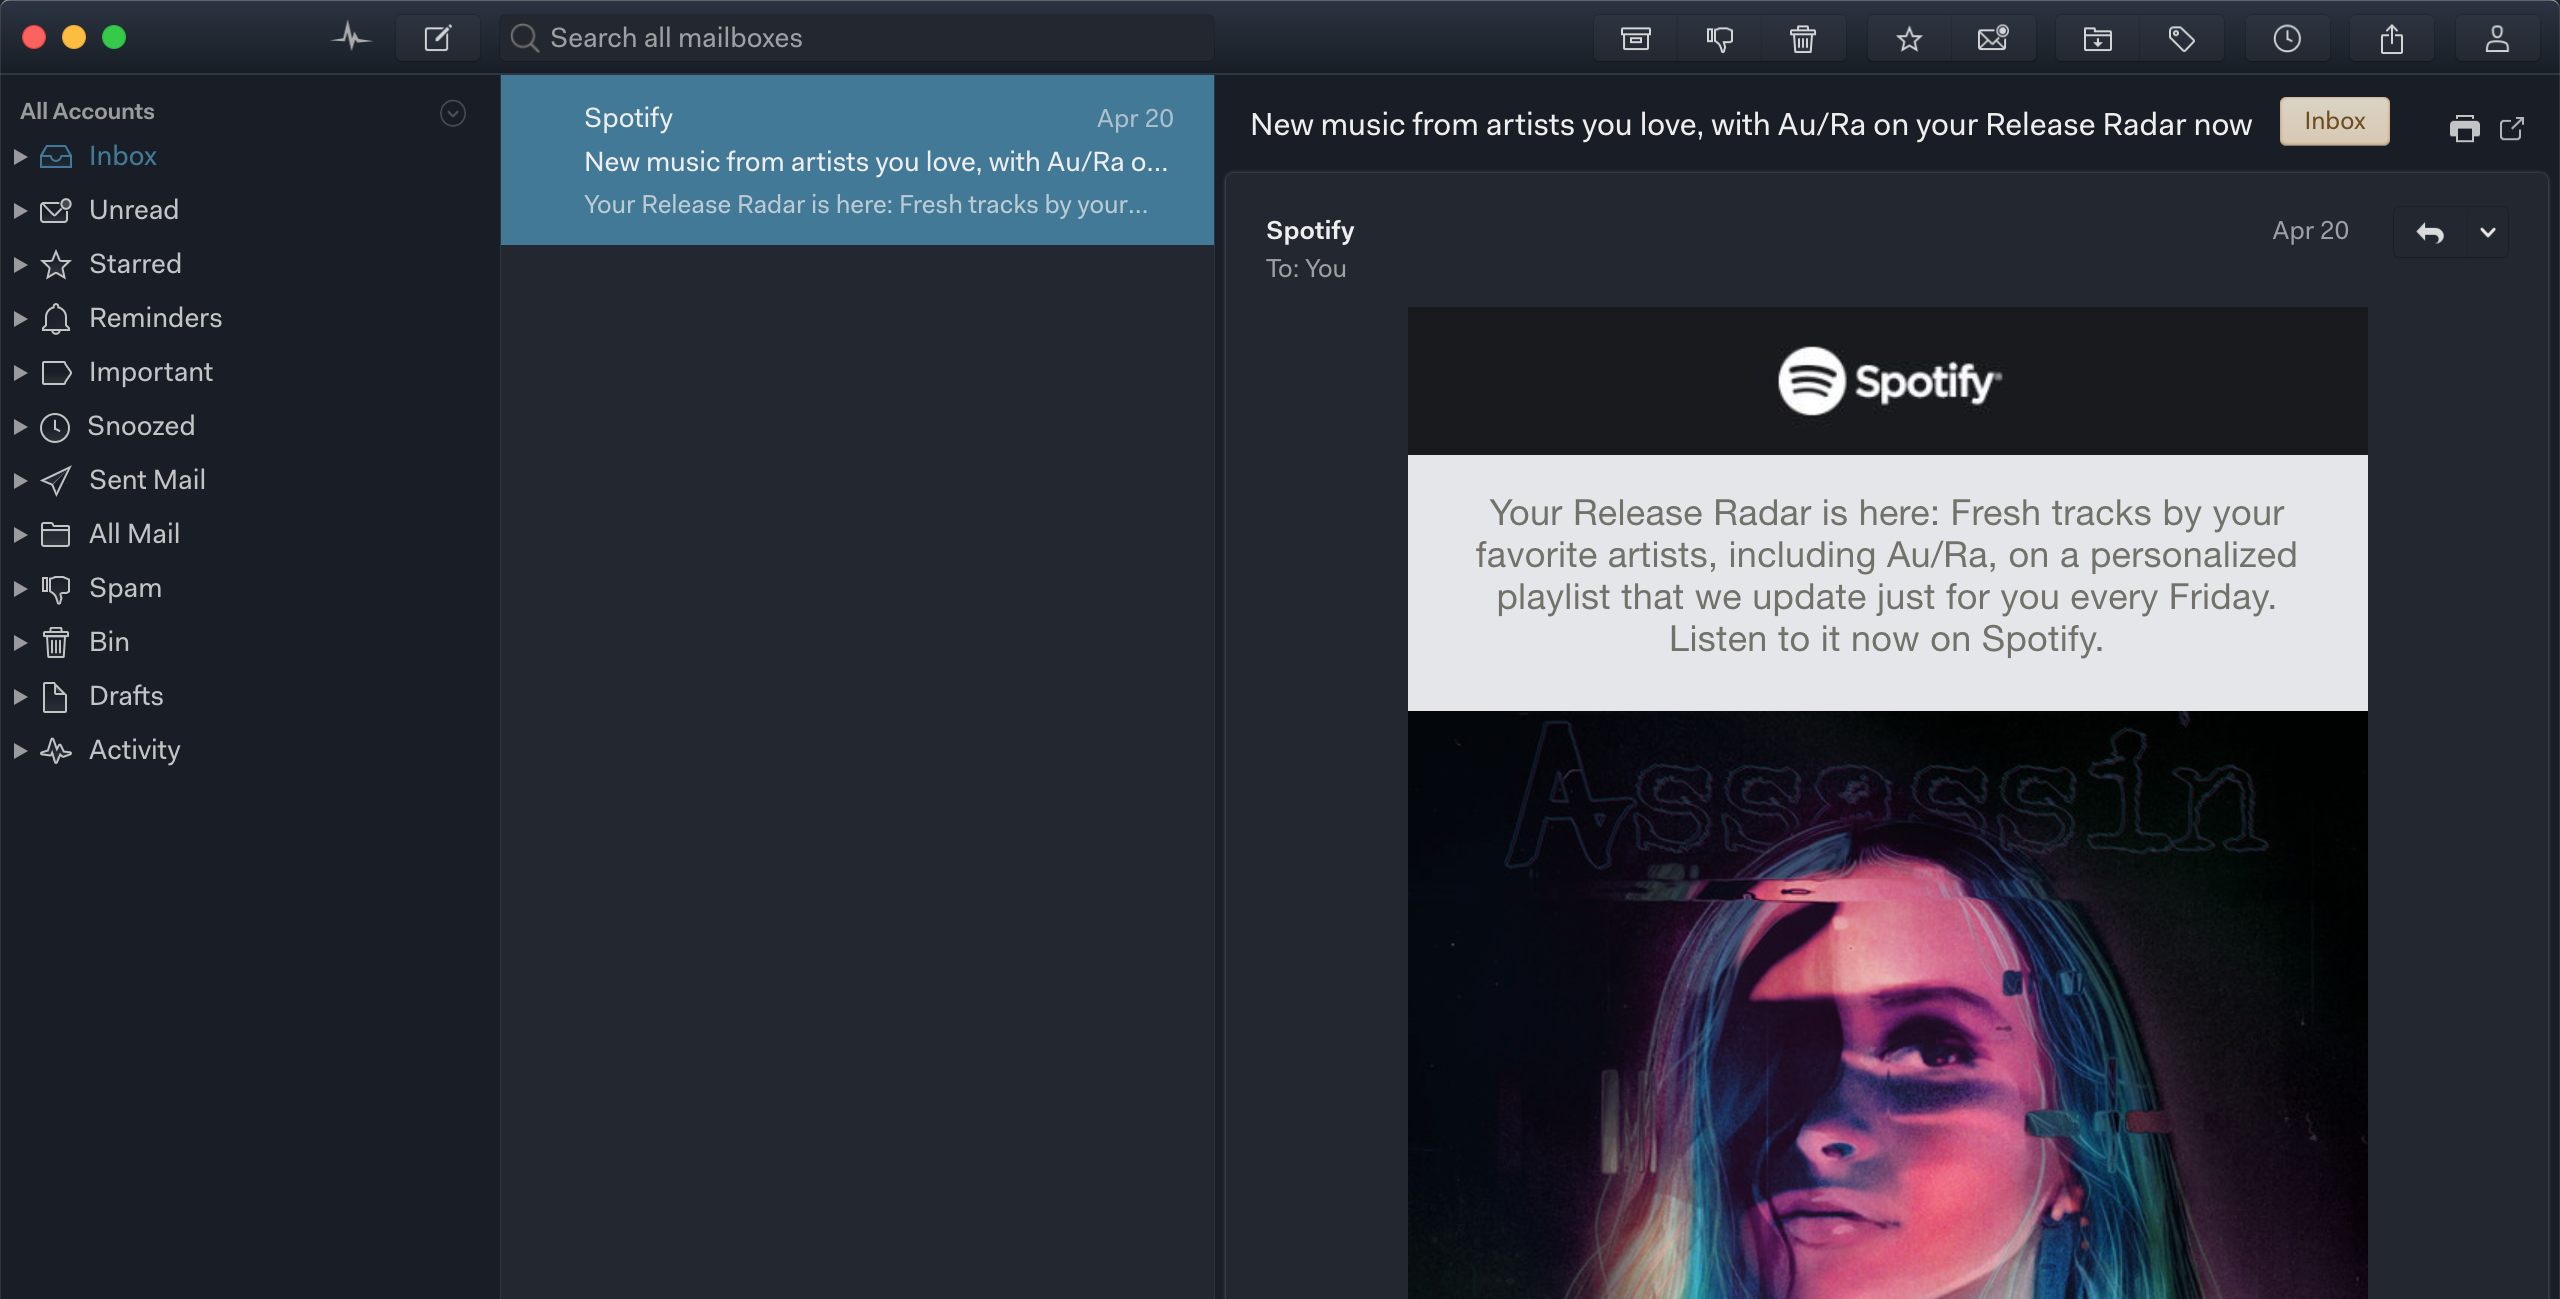
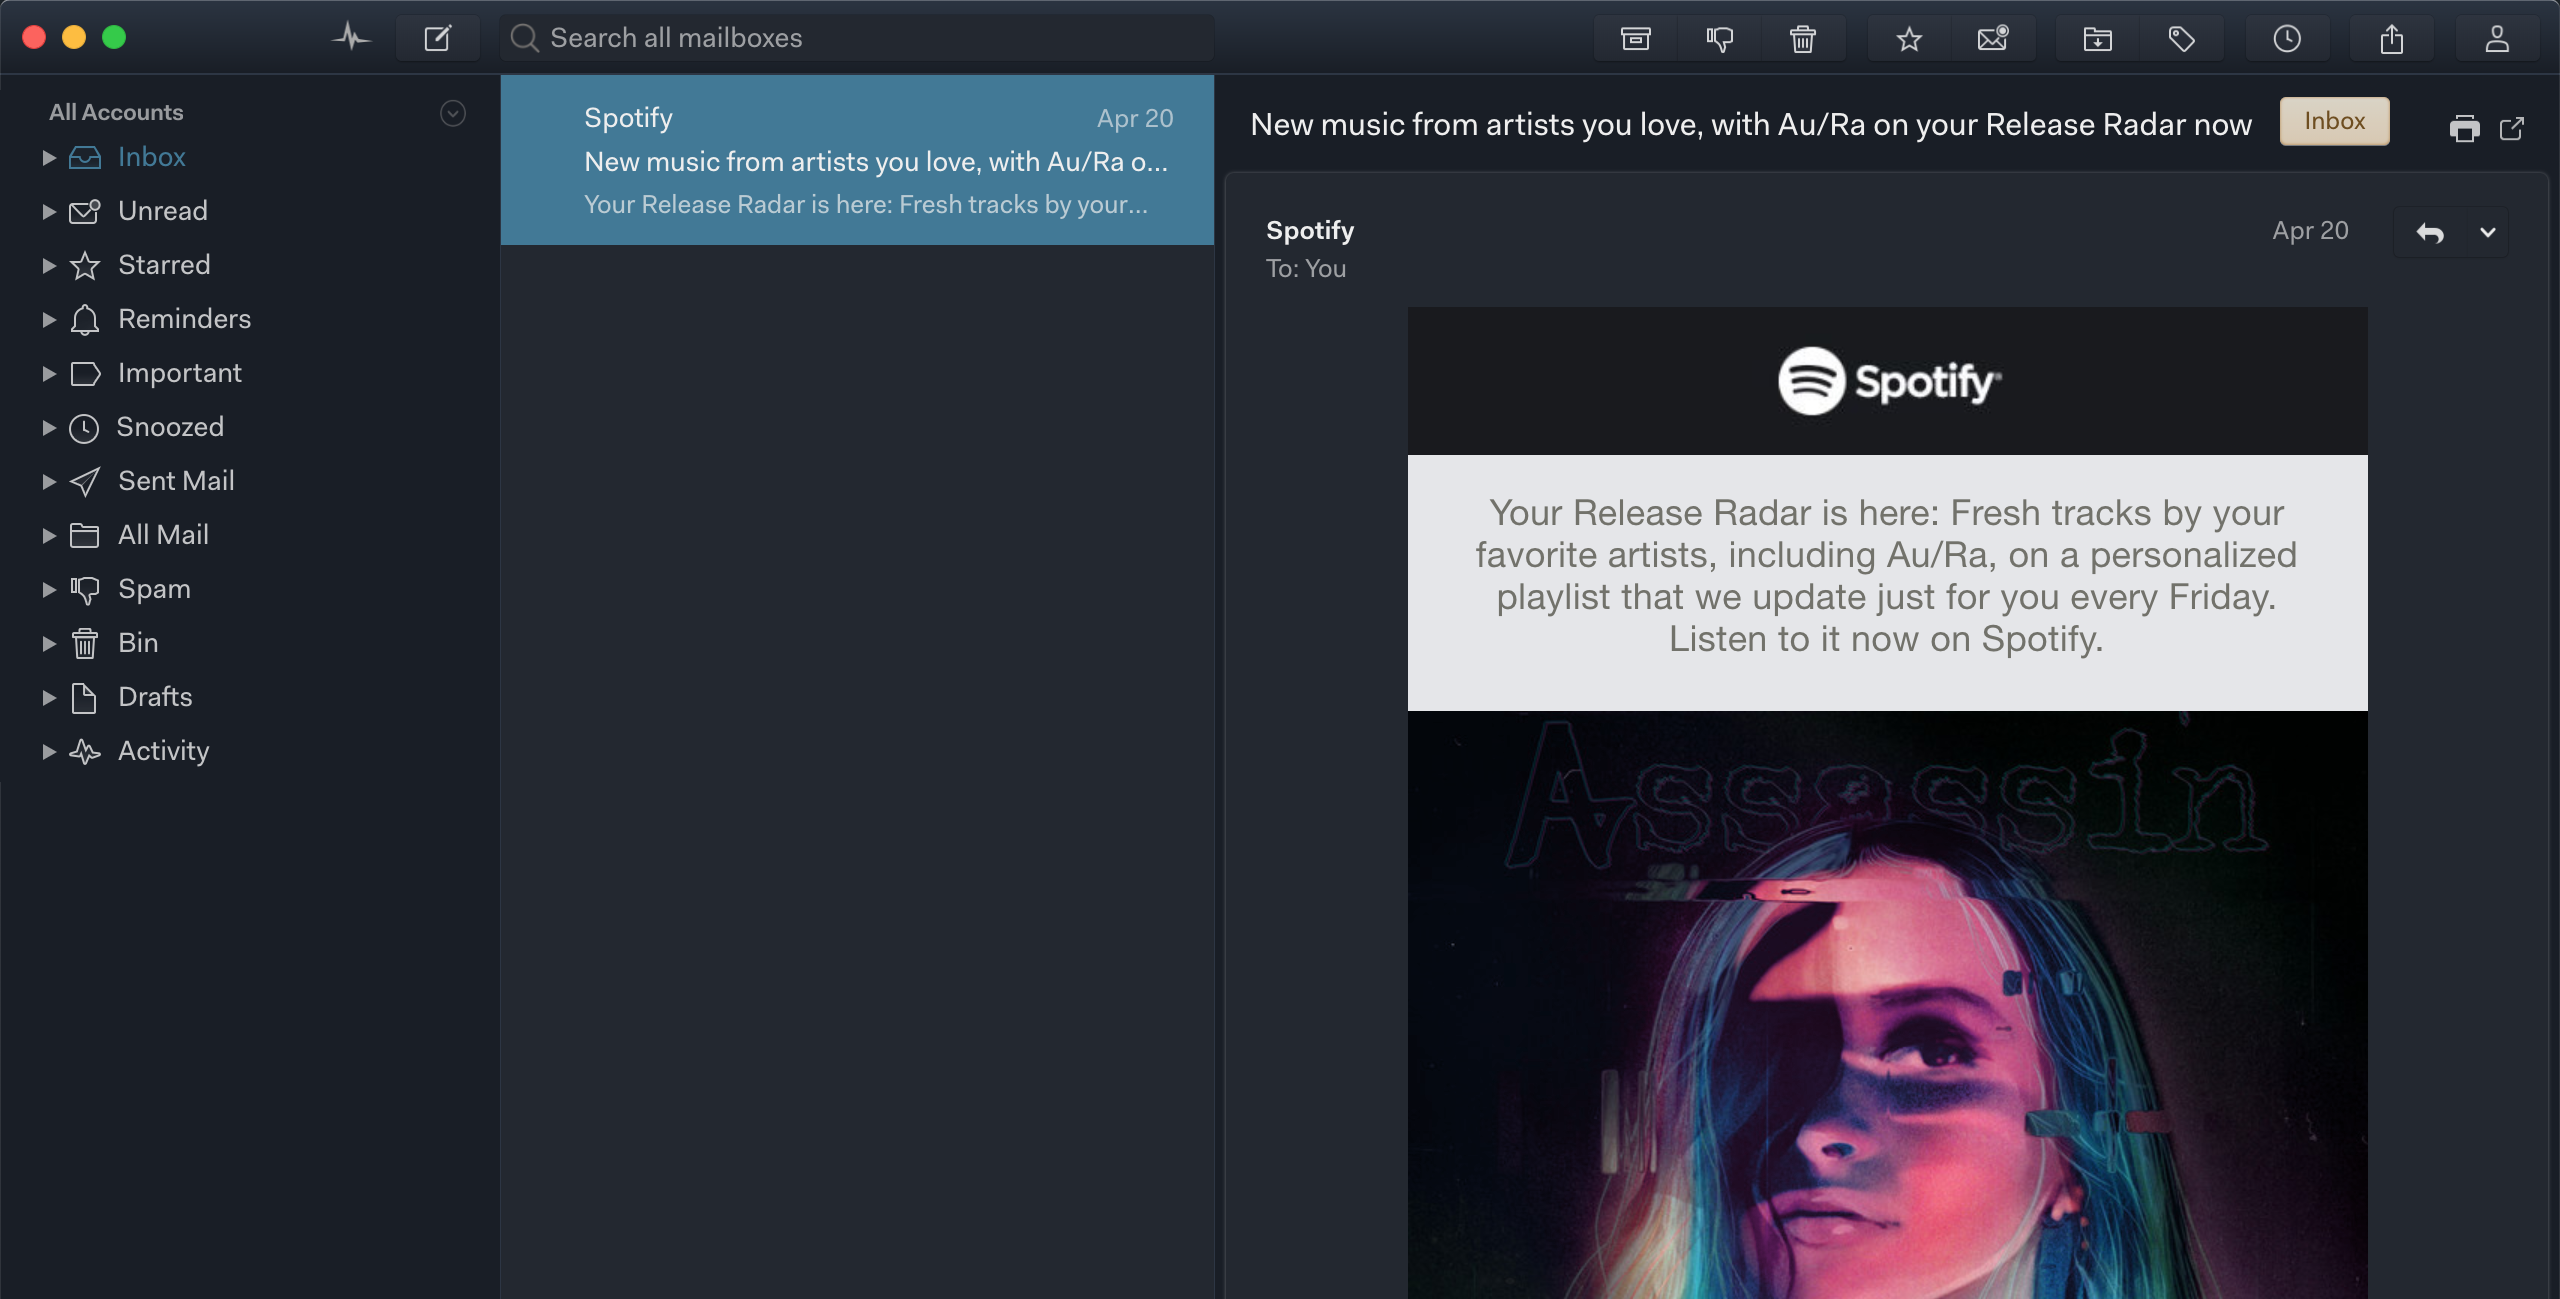
Added padding to left of sidebar

Changed region(s): [[0.0, 0.154, 0.0938, 0.5851], [0.0, 0.0616, 0.0625, 0.1232]]

diff --git a/styles/ui-variables.less b/styles/ui-variables.less
@@ -87,3 +87,7 @@ img.content-light {
   background-color: darken(@background-primary, 8%);
   border: 0;
 }
+
+.account-sidebar-sections {
+  padding: 0 0 0 15px;
+}
